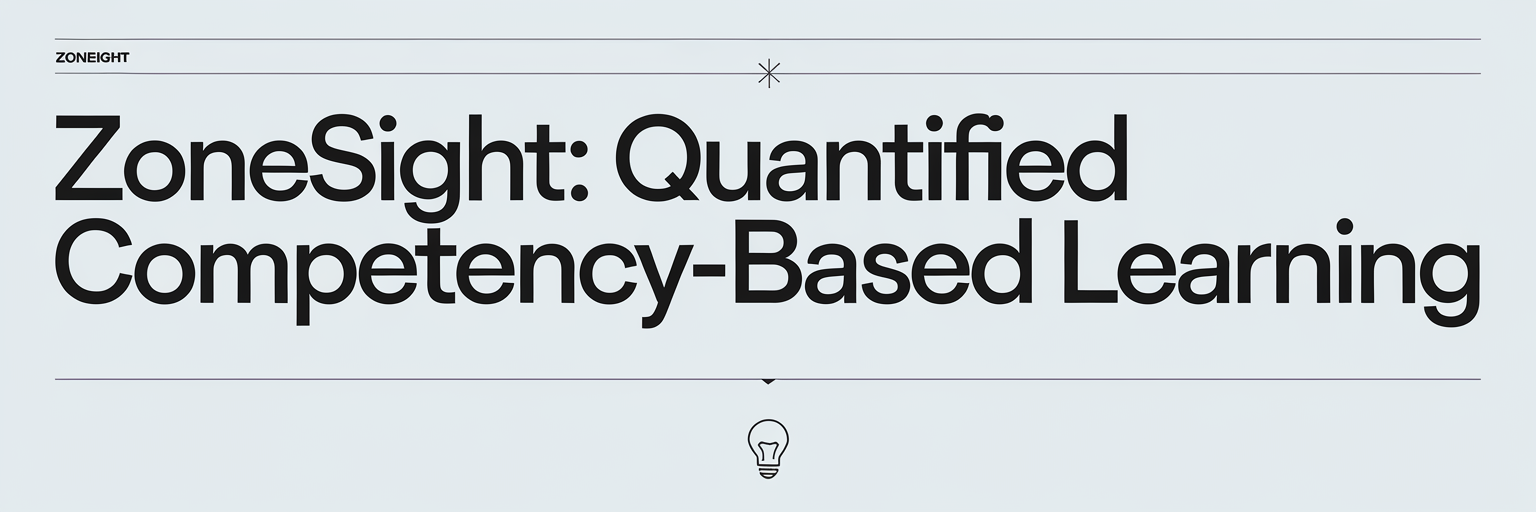
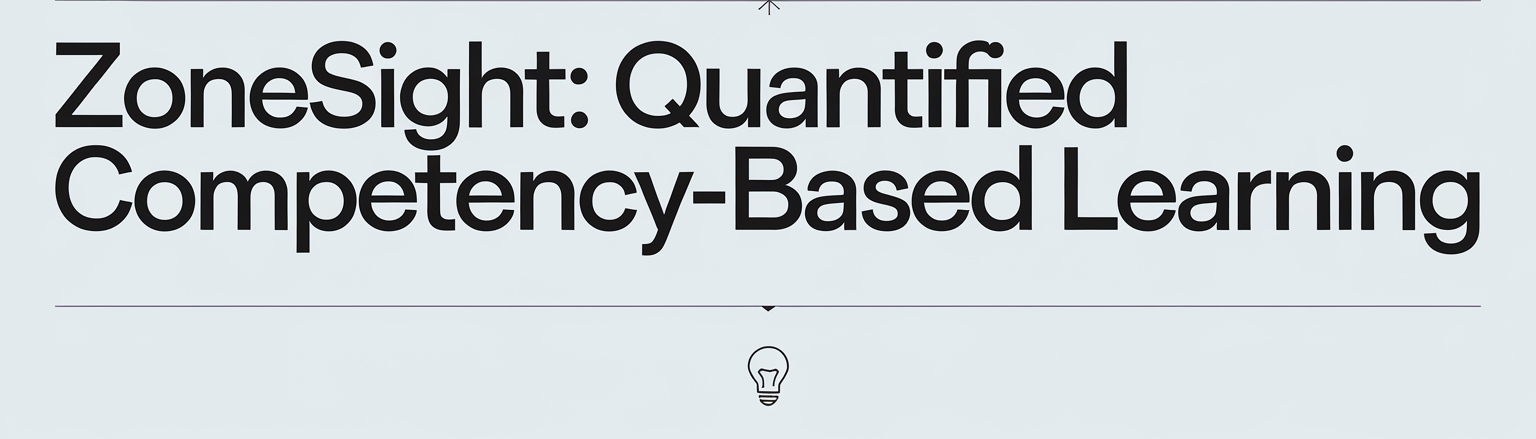
updated documentation, gui fixes, and cleanup

diff --git a/src/zonesight_gui.py b/src/zonesight_gui.py
@@ -23,10 +23,10 @@ ACCENT_COLOR = "#E74C3C"  # Red accent
 BACKGROUND_COLOR = "#ECF0F1"  # Light gray background
 TEXT_COLOR = "#2C3E50"  # Dark blue text
 
-class CompExtractorApp:
+class ZoneSightApp:
     def __init__(self, root):
         self.root = root
-        self.root.title("CompExtractor - Competency Analysis Tool")
+        self.root.title("ZoneSight - Competency Analysis Tool")
         self.root.geometry("780x850")  # Width matches banner width, height ensures all elements are visible
         
         # Center window on screen
@@ -80,9 +80,9 @@ class CompExtractorApp:
         
         # Configure common styles
         style.configure('TFrame', background=BACKGROUND_COLOR)
-        style.configure('TLabel', background=BACKGROUND_COLOR, foreground=TEXT_COLOR)
+        style.configure('TLabel', background=BACKGROUND_COLOR, foreground=SECONDARY_COLOR)
         style.configure('TButton', padding=5, background=PRIMARY_COLOR, foreground='white')
-        style.configure('TCheckbutton', padding=5, background=BACKGROUND_COLOR)
+        style.configure('TCheckbutton', padding=5, background=BACKGROUND_COLOR, foreground=SECONDARY_COLOR)
         style.configure('TEntry', fieldbackground='white')
         
         # Create a custom style for the Start button
@@ -114,7 +114,7 @@ class LandingPage(ttk.Frame):
         # Add banner image
         try:
             # Load and resize banner image
-            banner_img = Image.open('banner.jpeg')
+            banner_img = Image.open('ZoneSight_banner_tpz.png')
             # Calculate aspect ratio
             aspect_ratio = banner_img.width / banner_img.height
             new_width = 780  # Slightly less than window width
@@ -132,7 +132,7 @@ class LandingPage(ttk.Frame):
         # Welcome message
         welcome_label = ttk.Label(
             self, 
-            text="Welcome to CompExtractor! What would you like to analyze today?",
+            text="Ah, looks like you're interested in jammin' on some data! What are you analyzing today?",
             font=('Arial', 14),
             foreground=SECONDARY_COLOR,  # Use secondary color for welcome text
             wraplength=780
@@ -192,7 +192,7 @@ class AudioReflectionPage(ttk.Frame):
         # Add banner image
         try:
             # Load and resize banner image
-            banner_img = Image.open('banner.jpeg')
+            banner_img = Image.open('ZoneSight_banner_tpz.png')
             # Calculate aspect ratio
             aspect_ratio = banner_img.width / banner_img.height
             new_width = 780  # Slightly less than window width
@@ -257,12 +257,17 @@ class AudioReflectionPage(ttk.Frame):
         ttk.Checkbutton(options_frame, text="Perform Speaker Diarization", 
                        variable=self.perform_diarization).grid(row=0, column=0, sticky=tk.W, padx=10, pady=5)
         
+        # Music toggle
+        self.play_music = tk.BooleanVar(value=False)
+        ttk.Checkbutton(options_frame, text="Play TPZ Theme Music", 
+                       variable=self.play_music).grid(row=0, column=1, sticky=tk.W, padx=10, pady=5)
+        
         # Output type dropdown
-        ttk.Label(options_frame, text="Output Type:").grid(row=0, column=1, sticky=tk.W, padx=10, pady=5)
+        ttk.Label(options_frame, text="Output Type:").grid(row=1, column=0, sticky=tk.W, padx=10, pady=5)
         self.output_type = tk.StringVar(value="Full Report")
         output_dropdown = ttk.Combobox(options_frame, textvariable=self.output_type, state="readonly")
         output_dropdown['values'] = ("Full Report", "Structured JSON", "Both")
-        output_dropdown.grid(row=0, column=2, sticky=tk.W, padx=10, pady=5)
+        output_dropdown.grid(row=1, column=1, sticky=tk.W, padx=10, pady=5)
         
         # Start button - moved up and made more prominent
         self.start_button = ttk.Button(main_frame, text="Start Analysis", command=self.start_analysis, style='Start.TButton')
@@ -337,8 +342,11 @@ class AudioReflectionPage(ttk.Frame):
         timestamp = datetime.now().strftime("%H:%M:%S")
         formatted_message = f"[{timestamp}] {message}"
         
-        # Update status message
-        self.status_message.configure(text=formatted_message)
+        # Always use SECONDARY_COLOR for text
+        text_color = SECONDARY_COLOR  # Light blue
+        
+        # Update status message with new color
+        self.status_message.configure(text=formatted_message, foreground=text_color)
         
         # Update status indicator color
         indicator_color = "green"
@@ -532,7 +540,7 @@ class PortfolioPage(ttk.Frame):
         # Add banner image
         try:
             # Load and resize banner image
-            banner_img = Image.open('banner.jpeg')
+            banner_img = Image.open('ZoneSight_banner_tpz.png')
             # Calculate aspect ratio
             aspect_ratio = banner_img.width / banner_img.height
             new_width = 780  # Slightly less than window width
@@ -562,7 +570,7 @@ class PortfolioPage(ttk.Frame):
         
         # Portfolio URL input
         ttk.Label(main_frame, text="Portfolio URL:").grid(row=start_row, column=0, sticky=tk.W, pady=5)
-        self.portfolio_url = tk.StringVar(value="https://sites.google.com/")
+        self.portfolio_url = tk.StringVar(value="https://sites.google.com/possiblezone.org/")
         ttk.Entry(main_frame, textvariable=self.portfolio_url, width=60).grid(row=start_row, column=1, columnspan=2, padx=5, sticky=tk.W)
         
         # CSV file selection
@@ -620,12 +628,17 @@ class PortfolioPage(ttk.Frame):
         options_frame = ttk.LabelFrame(main_frame, text="Analysis Options")
         options_frame.grid(row=start_row+4, column=0, columnspan=3, sticky=(tk.W, tk.E), pady=10, padx=5)
         
+        # Music toggle
+        self.play_music = tk.BooleanVar(value=False)
+        ttk.Checkbutton(options_frame, text="Play TPZ Theme Music", 
+                       variable=self.play_music).grid(row=0, column=0, sticky=tk.W, padx=10, pady=5)
+        
         # Output type dropdown
-        ttk.Label(options_frame, text="Output Type:").grid(row=0, column=0, sticky=tk.W, padx=10, pady=5)
+        ttk.Label(options_frame, text="Output Type:").grid(row=0, column=1, sticky=tk.W, padx=10, pady=5)
         self.output_type = tk.StringVar(value="Full Report")
         output_dropdown = ttk.Combobox(options_frame, textvariable=self.output_type, state="readonly")
         output_dropdown['values'] = ("Full Report", "Structured JSON", "Both")
-        output_dropdown.grid(row=0, column=1, sticky=tk.W, padx=10, pady=5)
+        output_dropdown.grid(row=0, column=2, sticky=tk.W, padx=10, pady=5)
         
         # Start button
         self.start_button = ttk.Button(main_frame, text="Start Analysis", command=self.start_analysis, style='Start.TButton')
@@ -676,8 +689,11 @@ class PortfolioPage(ttk.Frame):
         timestamp = datetime.now().strftime("%H:%M:%S")
         formatted_message = f"[{timestamp}] {message}"
         
-        # Update status message
-        self.status_message.configure(text=formatted_message)
+        # Always use SECONDARY_COLOR for text
+        text_color = SECONDARY_COLOR  # Light blue
+        
+        # Update status message with new color
+        self.status_message.configure(text=formatted_message, foreground=text_color)
         
         # Update status indicator color
         indicator_color = "green"
@@ -913,7 +929,7 @@ class PortfolioPage(ttk.Frame):
 
 def main():
     root = tk.Tk()  # Use standard Tk instead of ThemedTk
-    app = CompExtractorApp(root)
+    app = ZoneSightApp(root)
     root.mainloop()
 
 if __name__ == "__main__":

diff --git a/README.md b/README.md
@@ -1,8 +1,8 @@
-![CompExtractor Banner](banner.jpeg)
+![ZoneSight Banner](ZoneSight_banner_tpz.png)
 
-# CompExtractor - Competency Analysis Tool
+# TPZ Competency Analyzer
 
-A powerful tool that combines audio analysis and portfolio assessment to extract competency insights across multiple dimensions, combining local processing with cloud services.
+A TPZ-specific adaptation that combines ZoneSight and Portfolio Analyzer to extract competency insights across 14 key TPZ dimensions, combining local processing with cloud services.
 
 ## Table of Contents
 - [Overview](#overview)
@@ -24,7 +24,7 @@ A powerful tool that combines audio analysis and portfolio assessment to extract
 
 ## Overview
 
-CompExtractor analyzes both audio recordings and portfolios to extract competency insights, providing detailed reports on key competency dimensions. The tool combines local processing with cloud services:
+ZoneSight analyzes both audio recordings and student portfolios to extract competency insights, providing detailed reports on 14 key competency dimensions. The tool combines local processing with cloud services:
 
 - For audio analysis: Local transcription with cloud-based speaker diarization and competency analysis
 - For portfolio analysis: Web page conversion to PDF and cloud-based competency analysis
@@ -54,22 +54,86 @@ CompExtractor analyzes both audio recordings and portfolios to extract competenc
 
 ## Features
 
-Analyzes key competencies across three levels:
+Analyzes 14 key competencies (see full definitions and RDs in test_full.rtf in working folder, or consult TPZ documentation):
+1. Sense of Belonging - Feeling connected to a learning community
+2. Growth Mindset - Belief that abilities can grow with effort
+3. STEAM Interest - Exploration of identity through STEAM
+4. Creativity - Ability to generate and adapt ideas
+5. Communication - Clear exchange of information
+6. Teamwork - Cooperative work with diverse peers
+7. Adaptability - Adjusting to change and uncertainty
+8. Problem-Solving - Identifying and solving challenges
+9. STEAM Agency - Capability with STEAM tools
+10. Self-Efficacy - Confidence in ability to succeed
+11. Persistence - Sustaining effort through challenges
+12. Opportunity Recognition - Identifying learning opportunities
+13. Continuous Learning - Ongoing skill development
+14. Social Capital - Building and leveraging connections
+
+Each competency is evaluated on a 1-10 scale across three levels:
 - Emerging (1-3)
 - Developing (4-7)
 - Proficient (8-10)
 
-The competency framework is customizable through RTF files, allowing you to define your own competency dimensions and criteria.
+## Quick Start
+
+1. Ensure you have **Python 3.11+** installed (tested with Python 3.11.11)
+2. Clone the repository
+3. Set up a virtual environment and install dependencies:
+   ```bash
+   # Create a virtual environment
+   python3.11 -m venv venv
+   
+   # Activate the virtual environment
+   # On Windows:
+   venv\Scripts\activate
+   # On macOS/Linux:
+   source venv/bin/activate
+   
+   # Install dependencies
+   pip install -r requirements.txt
+   ```
+4. Create a `.env` file with your API keys (see Environment Variables section)
+5. Run the GUI: `python src/zonesight_gui.py`
 
 ## Installation
 
-1. Clone the repository
-2. Install dependencies:
+### Prerequisites
+- **Python 3.11+** (specifically tested with Python 3.11.11)
+- FFmpeg (for audio processing)
+- Internet connection (for API services)
+- GPU recommended but not required (for faster transcription)
+
+### Step-by-Step Installation
+
+1. Clone the repository:
+   ```bash
+   git clone https://github.com/yourusername/zonesight.git
+   cd zonesight
+   ```
+
+2. Create and activate a virtual environment:
+   ```bash
+   # Create a virtual environment
+   python3.11 -m venv venv
+   
+   # Activate the virtual environment
+   # On Windows:
+   venv\Scripts\activate
+   # On macOS/Linux:
+   source venv/bin/activate
+   ```
+
+3. Install dependencies:
    ```bash
    pip install -r requirements.txt
    ```
+   
+   Note: On some systems, you may need to install additional system packages for certain dependencies:
+   - For pygame on Linux: `sudo apt-get install python3-pygame`
+   - For tk on Linux: `sudo apt-get install python3-tk`
 
-3. Required environment variables (.env):
+4. Create a `.env` file in the root directory with the following environment variables:
    ```
    # For Competency Analysis (OpenRouter)
    OPENROUTER_API_KEY=your_key_here
@@ -83,26 +147,35 @@ The competency framework is customizable through RTF files, allowing you to defi
    PDF_HOST=https://html2pdf-u707.onrender.com
    ```
 
-4. Required sound files (in root directory):
+5. Ensure required sound files are in the root directory:
    - sound.mp3 (completion sound)
    - coin.mp3 (progress indicator)
+   - In the Zone.mp3 (background music)
+   - ZoneSight_banner_tpz.png (for GUI header)
+
+### Obtaining API Keys
+
+- **OpenRouter API Key**: Sign up at [openrouter.ai](https://openrouter.ai) and create an API key
+- **Hugging Face Token**: Create an account at [huggingface.co](https://huggingface.co), then generate a token in your account settings
+  - You'll also need to accept the terms for the pyannote/speaker-diarization model at [huggingface.co/pyannote/speaker-diarization](https://huggingface.co/pyannote/speaker-diarization)
 
 ## Usage
 
 ### GUI Version
 ```bash
-python src/compextractor_gui.py
+python src/zonesight_gui.py
 ```
 
 The GUI provides a landing page with three options:
 - **Audio Reflection** - For analyzing audio recordings
-- **Portfolio** - For analyzing portfolios
+- **Portfolio** - For analyzing student portfolios
 - **Video Performance of Learning** - Placeholder for future implementation
 
 #### Audio Reflection Interface
 - Simplified audio file selection showing file count and names
 - Competency file selection (RTF/TXT)
 - Optional speaker diarization
+- Background music toggle (disabled by default)
 - Output format selection:
   - Full Report (HTML with narrative and ratings)
   - Structured JSON (machine-readable format)
@@ -116,6 +189,7 @@ The GUI provides a landing page with three options:
 - Portfolio section selection:
   - Beginner, Intermediate, Advanced skill levels
   - Business and Resume sections
+- Background music toggle (disabled by default)
 - Output format selection (same options as Audio Reflection)
 - Progress tracking
 - Automatic report generation for each portfolio
@@ -159,7 +233,7 @@ The tool generates different outputs depending on the analysis type:
 
 ## LLM Provider
 
-CompExtractor currently uses OpenRouter as the LLM provider for competency analysis. The default model is `anthropic/claude-3.7-sonnet`, but this can be changed in your .env file.
+ZoneSight currently uses OpenRouter as the LLM provider for competency analysis. The default model is `anthropic/claude-3.7-sonnet`, but this can be changed in your .env file.
 
 ### Using Alternative LLM Providers
 
@@ -177,11 +251,24 @@ For example, to use Amazon Bedrock directly instead of OpenRouter, you would nee
 
 ## System Requirements
 
-- Python 3.11+ (tested on 3.11.11)
+- **Python 3.11+** (specifically tested with Python 3.11.11)
 - FFmpeg (for audio processing)
 - Internet connection (for diarization and competency analysis)
+- Disk space: ~2GB for model files and dependencies
+- Memory: At least 4GB RAM recommended (8GB+ for larger audio files)
+- GPU: Optional but recommended for faster transcription
 
 ## Troubleshooting
+
+### Virtual Environment Issues
+- If you encounter issues with the virtual environment, try creating it with the specific Python version:
+  ```bash
+  python3.11 -m venv venv
+  ```
+- On Windows, you may need to enable script execution:
+  ```powershell
+  Set-ExecutionPolicy -ExecutionPolicy RemoteSigned -Scope CurrentUser
+  ```
 
 ### Speaker Diarization Issues
 - Ensure you've accepted the model terms at huggingface.co
@@ -201,9 +288,14 @@ For example, to use Amazon Bedrock directly instead of OpenRouter, you would nee
 
 ### GUI Issues
 - Ensure all required sound files are in the root directory
-- Check that the banner.jpeg file exists for the GUI header
+- Check that the ZoneSight_banner_tpz.png file exists for the GUI header
 - If the GUI appears cut off, try resizing the window
 
-## Author
+## Authors and Credits
 
-Created by Gus Halwani ([@fizt656](https://github.com/fizt656))
+This project combines and adapts two separate tools for TPZ-specific use:
+
+- **Audio Reflection Module and Overall Architecture**: Adapted from CompExtractor by Gus Halwani ([@fizt656](https://github.com/fizt656))
+- **Portfolio Analysis Module**: Created by Miles Baird ([@kilometers](https://github.com/kilometers/zs-portfolio))
+
+The original competency extractor project is maintained separately by Gus Halwani and is available under its own licensing terms for deployment across a range of contexts. This TPZ-specific adaptation integrates both tools and adds TPZ competency-based learning frameworks and reporting dimensions.
